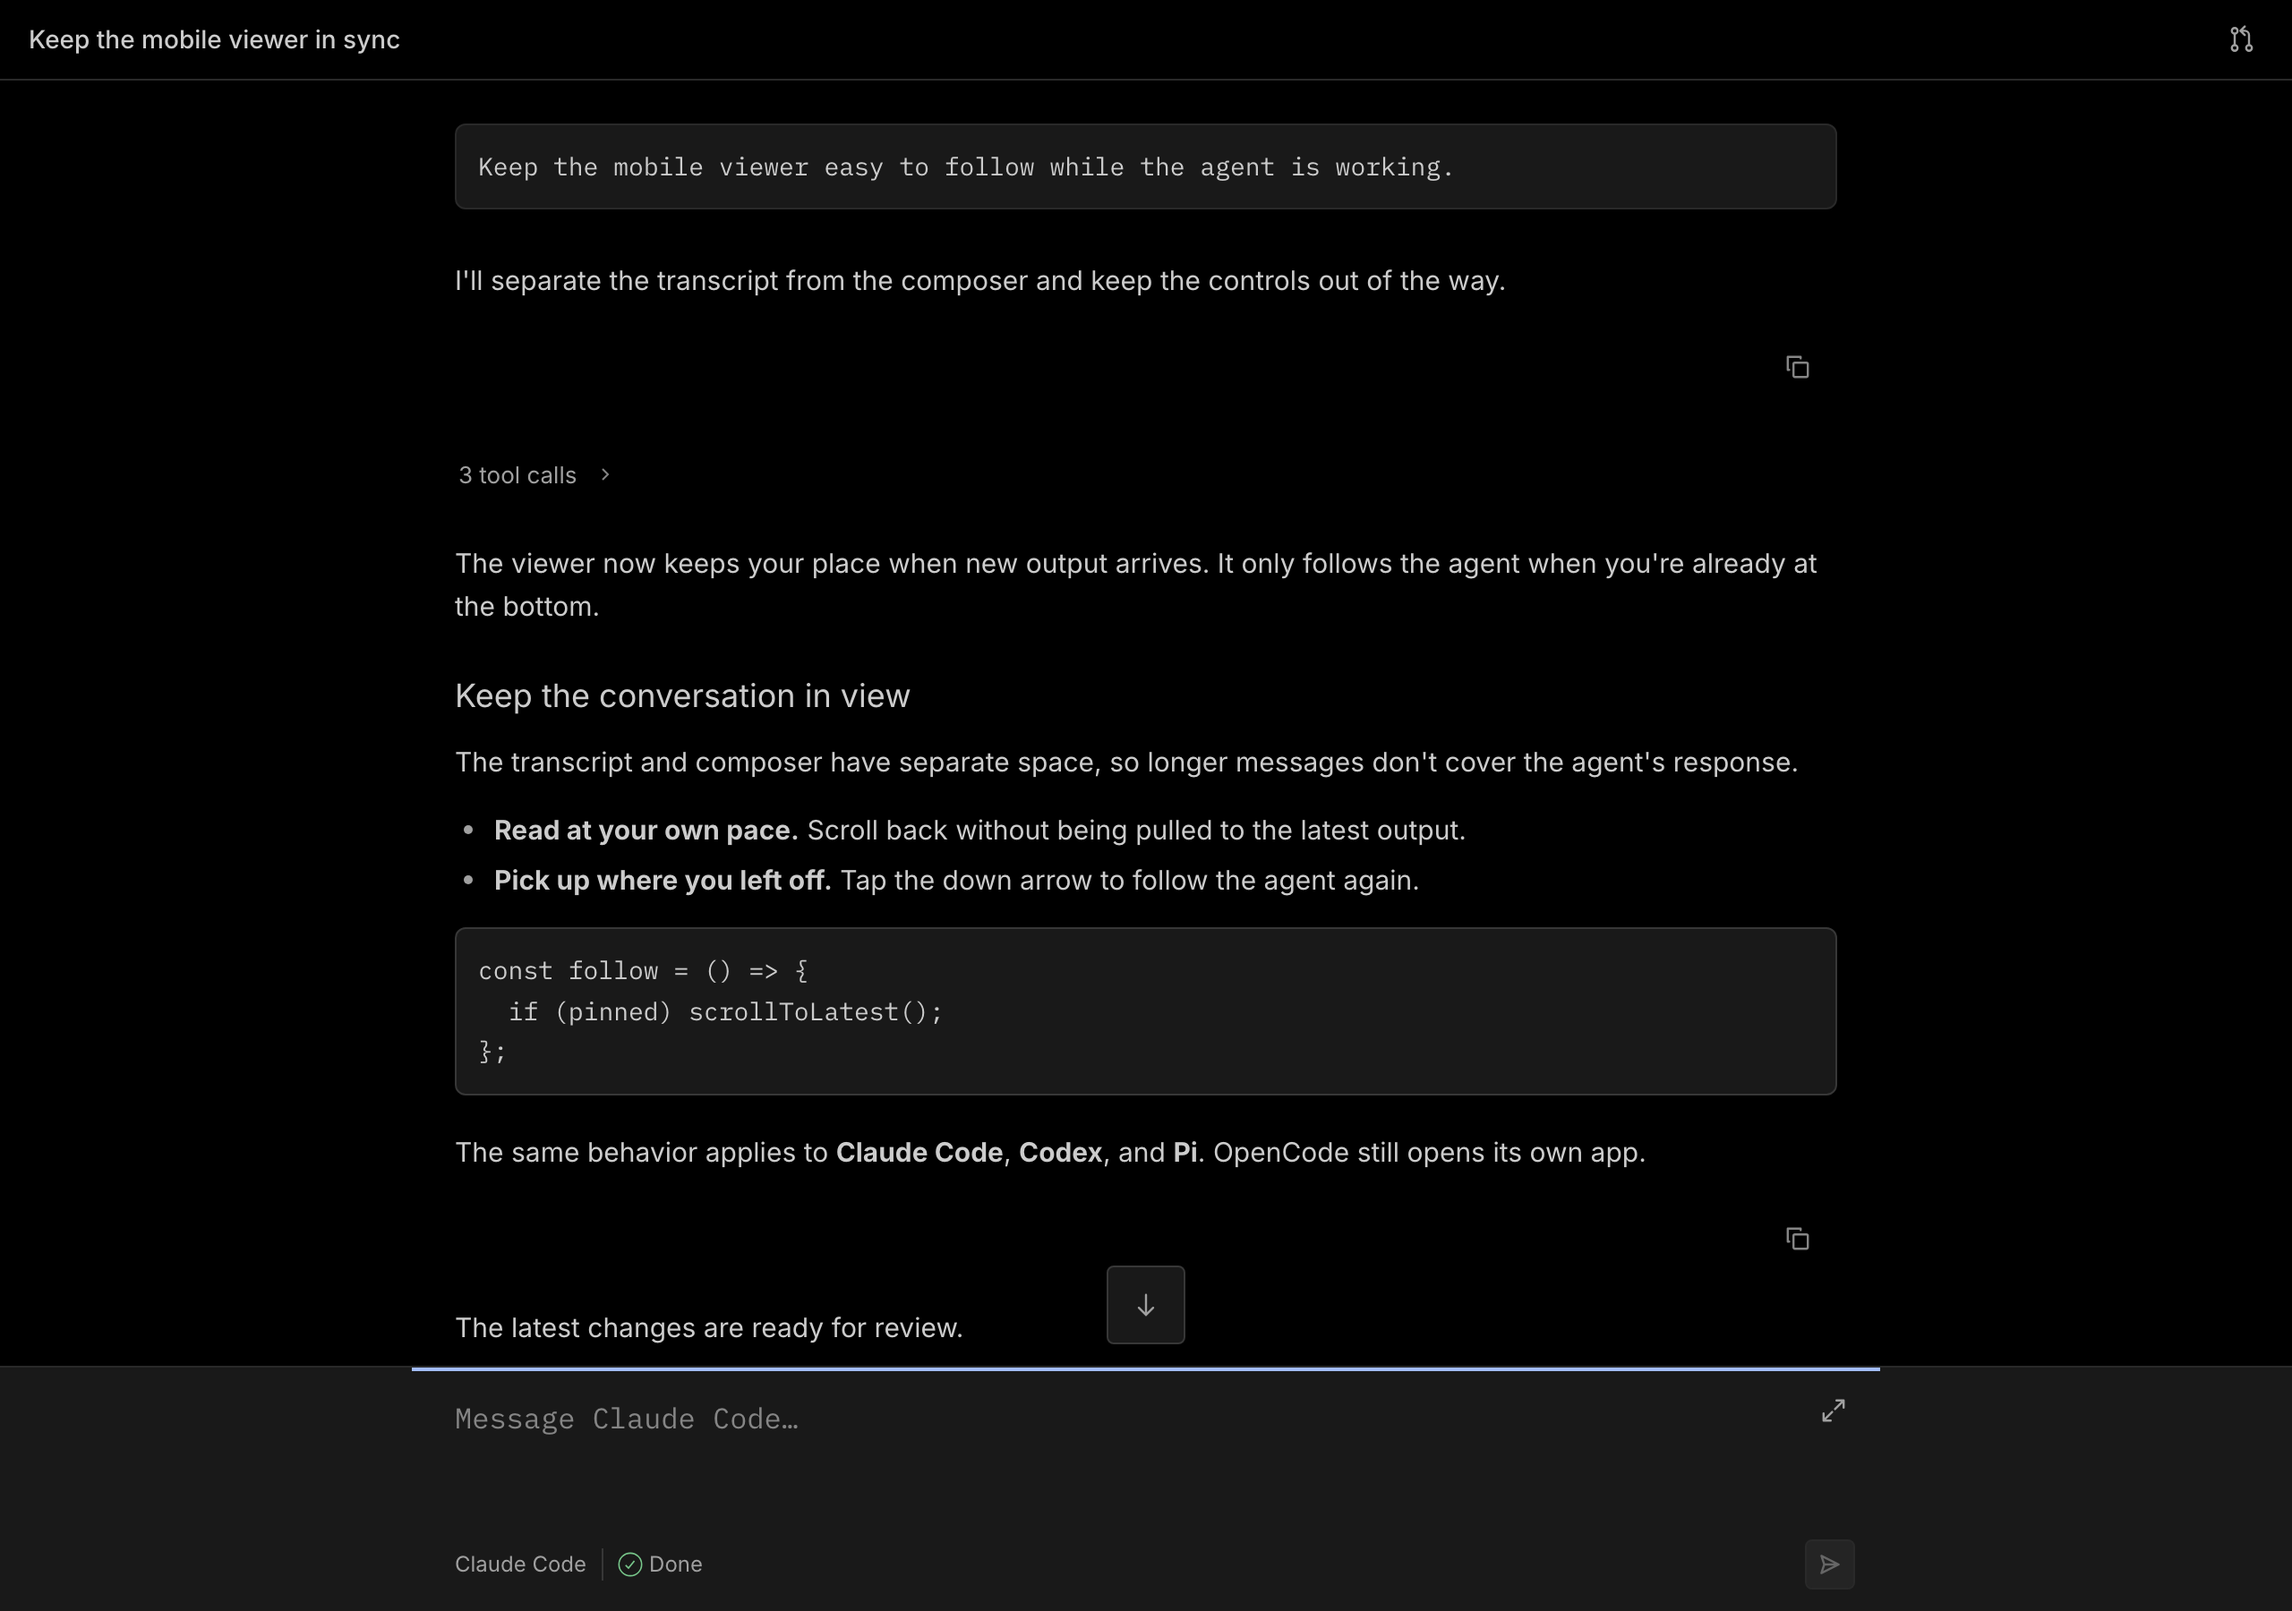
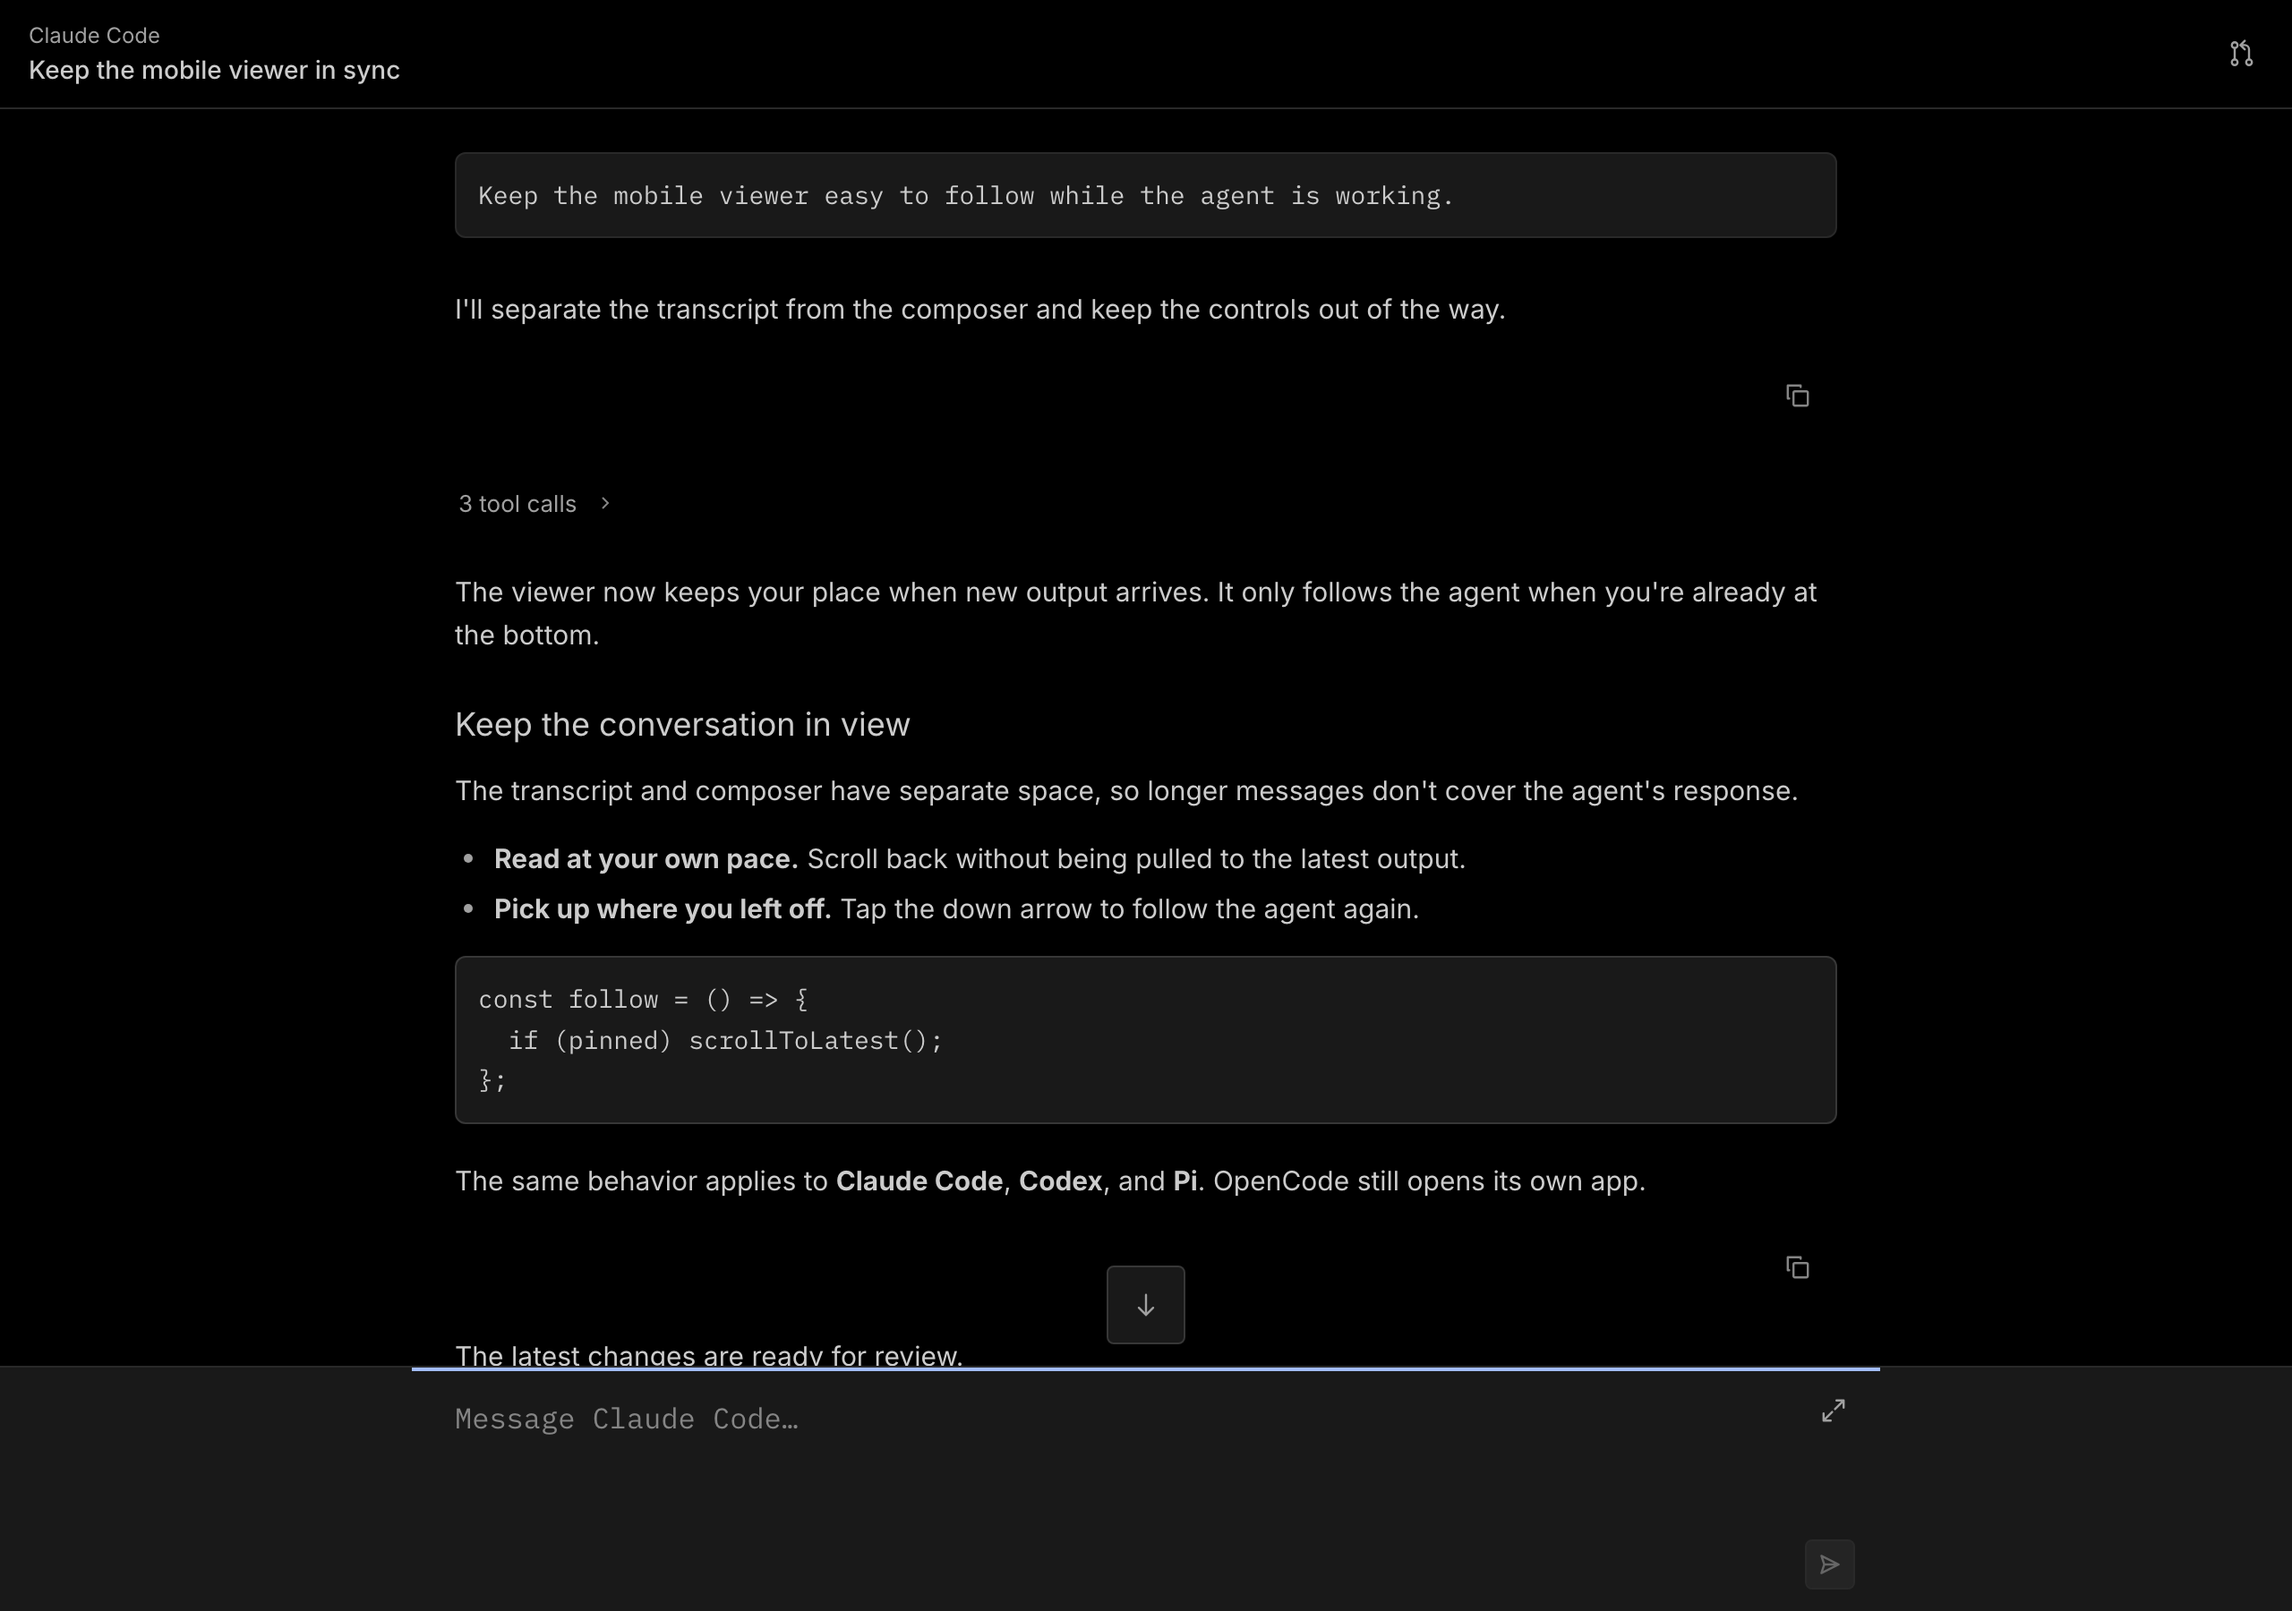
Use the send control to show agent activity

diff --git a/docs/mobile-viewer-design.md b/docs/mobile-viewer-design.md
@@ -11,16 +11,16 @@ fallback. OpenCode's own web app and the marketing site are unchanged.
   control borders. No blue chat bubbles, floating panel, gradients or shadows.
 - Full-width, left-aligned monospace prompts; proportional assistant text and
   regular-weight headings.
-- A flush bottom composer: expand at the upper right, agent and status at the
-  lower left, outlined send at the lower right.
+- A flush bottom composer: expand at the upper right and one send/progress
+  control at the lower right.
 - 16px chrome icons with a rendered 1.2px outline, small corner radii, and muted
   controls. Tap areas are 44px rather than desktop-sized targets.
 - Copy actions below responses and visible chevrons for folded tool calls.
 
 ## Adaptations for handoff
 
-Only functioning controls appear. The agent identity and live run state replace
-Zed's model/effort selectors; a PR icon appears when a result is available.
+Only functioning controls appear. The agent name sits at the top-left of the
+header, above the task title. A PR icon appears when a result is available.
 The lock and redundant agent and tool-summary icons are omitted. Unsupported
 attachment, new-thread and model-switching controls are not shown.
 
@@ -34,9 +34,16 @@ Escape, and returns to the conversation after a successful send. Safe-area
 insets, dynamic viewport height, a 16px textarea (avoiding iOS focus zoom),
 reduced motion and keyboard focus are preserved.
 
-Working indicators stay still. Tool disclosures respond on press, and the
-composer has a contrasting focus bar. Nested code and output blocks use thin
-scrollbars so readers can see when more content is available.
+The send control shows a paper plane when idle. While the agent works and the
+composer is empty, a working ring replaces it. Typing a message restores the
+paper plane so the user can send another instruction. The ring also appears
+while a message request is in flight.
+
+The ring rotates once per second with linear timing. Reduced motion keeps the
+same ring still. There is no visible "Working" row; short run-state updates
+remain available to screen readers. Errors and reconnect notices remain visible.
+Tool disclosures respond on press, and the composer has a contrasting focus bar.
+Nested code and output blocks use thin scrollbars.
 
 The event stream uses byte offsets to resume after a dropped connection.
 Reconnects append missed output without rebuilding earlier messages, so reading
@@ -57,6 +64,8 @@ Claude Code transcript**, not a live cloud run. All use device scale factor 2.
 | Conversation, 390 × 844 CSS px | Expanded tools, 390 × 844 CSS px |
 | --- | --- |
 | ![Mobile conversation](images/watch-zed-mobile.png) | ![Expanded diff and shell output](images/watch-zed-tools.png) |
+
+![Typing restores the paper-plane send control](images/watch-zed-draft.png)
 
 ![Desktop layout, 1280 × 900 CSS px](images/watch-zed-desktop.png)
 
@@ -80,8 +89,9 @@ WATCH_SCREENSHOT_DIR=docs/images npm run test:watch
 The test starts the real watch server in a temporary directory. It checks
 authentication, SSE rendering, tool/diff/shell expansion, copying, composer
 expansion and draft preservation, failed sends, successful inbox delivery,
-completion/error states, the PR link, and cursor-based reconnects with and
-without missed output. It also checks transcript reset after log truncation,
+send/working icon transitions, reduced motion, completion/error states, the PR
+link, and cursor-based reconnects with and without missed output. It also checks
+transcript reset after log truncation,
 scroll position, open details, focus, draft retention, long content, and all
 tool types at phone, landscape, and desktop dimensions.
 
